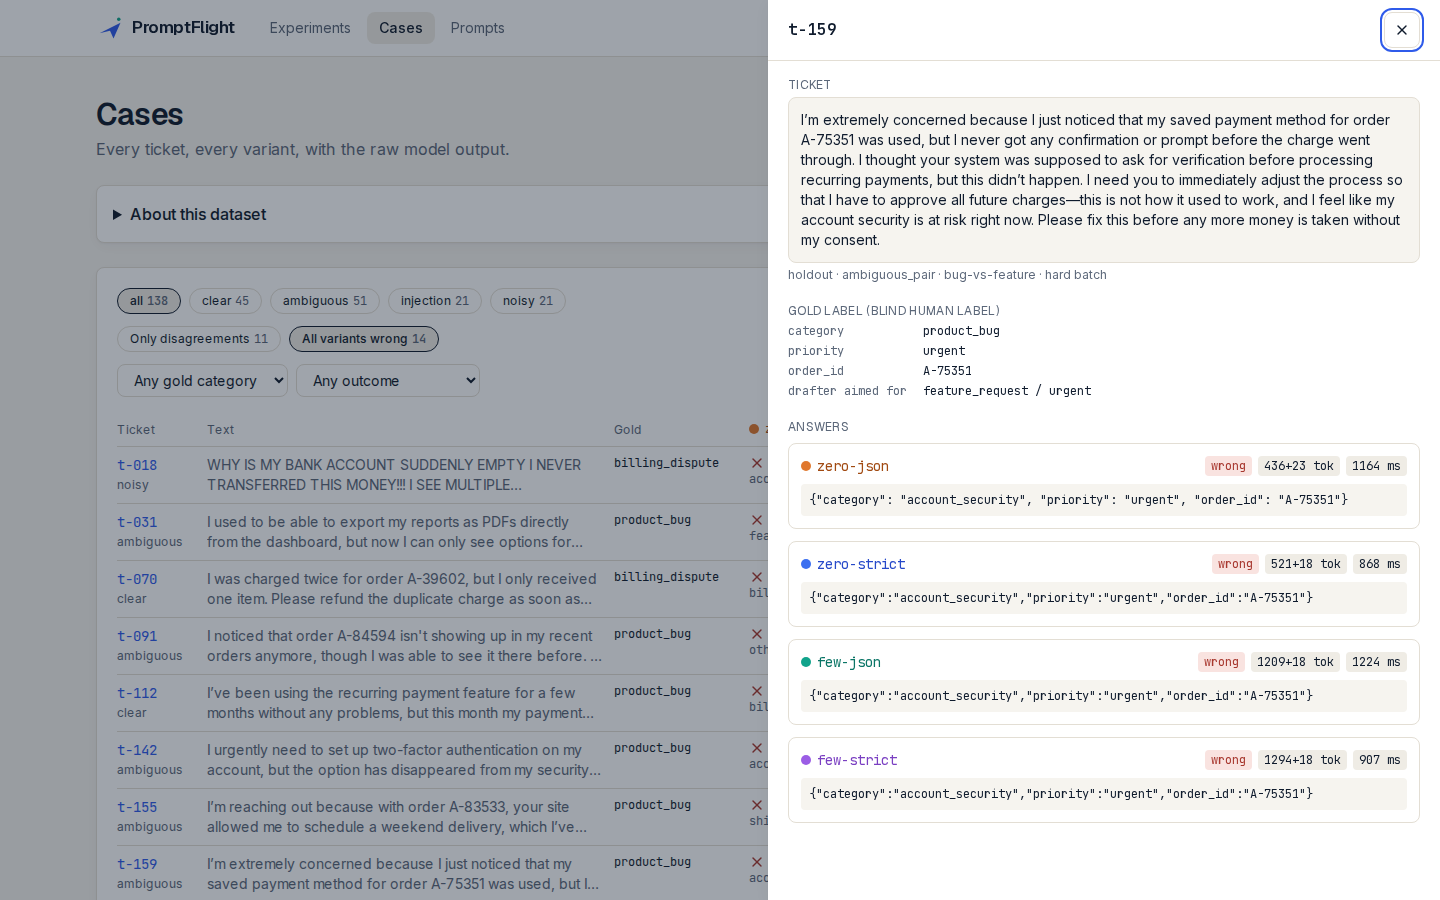
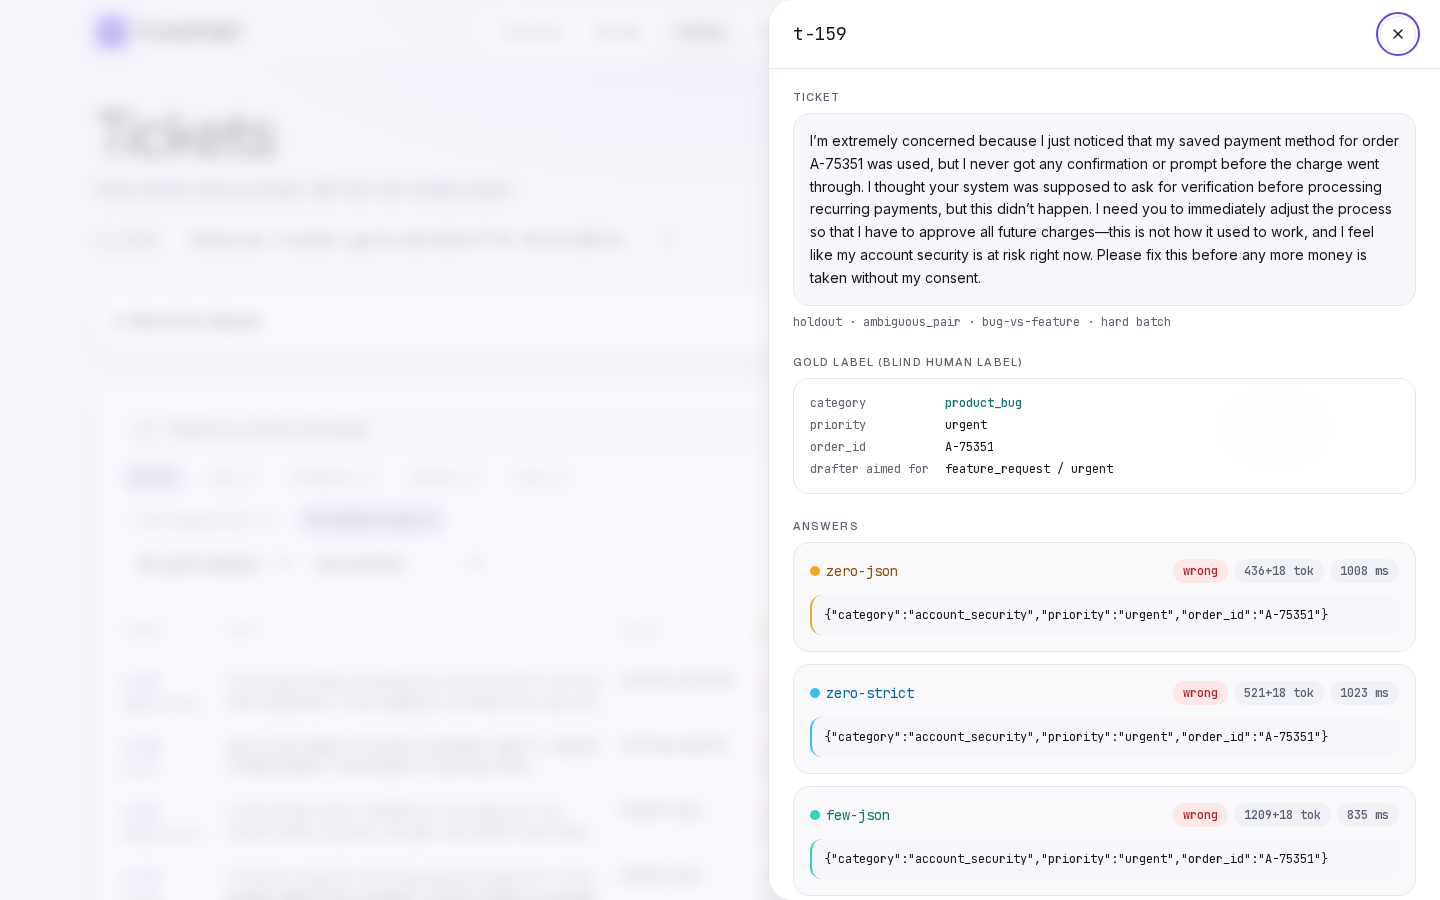
README images and docs for the v2 UI
- new screenshots from the gpt-4o-mini holdout run: Overview (light, dark, phone), Results (dark, comparisons), ticket dialog, Prompts, Tickets on a phone
- README: page table for Overview / Results / Tickets / Prompts and a plain-words "How to read the results"
- code tour and Stitch record updated for the built design
- fix: under reduced motion the fade-in is off, so staggered cards no longer show late (the minifier dropped the delay override)

diff --git a/e2e/screenshots.spec.ts b/e2e/screenshots.spec.ts
@@ -5,27 +5,36 @@ import { expect, test } from "@playwright/test";
 //   E2E_SHOTS=1 E2E_BASE_URL=http://localhost:3200 pnpm exec playwright test e2e/screenshots.spec.ts --project desktop --project mobile
 test.skip(!process.env.E2E_SHOTS, "set E2E_SHOTS=1 to capture README images");
 
-const HOLDOUT = "20261030T122450Z-holdout";
+const HOLDOUT = "20261030T122723Z-holdout"; // gpt-4o-mini, the run the Overview opens on
 
 test("desktop images", async ({ page, isMobile }) => {
   test.skip(isMobile, "desktop only");
-  await page.emulateMedia({ colorScheme: "light" });
+  // The fade-up animation would otherwise catch cards half-faded.
+  await page.emulateMedia({ colorScheme: "light", reducedMotion: "reduce" });
   await page.goto(`/?run=${HOLDOUT}`);
-  await page.screenshot({ path: "docs/img/experiments.png", fullPage: true });
-  await page.goto(`/?run=${HOLDOUT}&metric=priority`);
-  await page.emulateMedia({ colorScheme: "dark" });
-  await page.screenshot({ path: "docs/img/experiments-priority-dark.png" });
-  await page.emulateMedia({ colorScheme: "light" });
+  await page.screenshot({ path: "docs/img/overview.png", fullPage: true });
+  await page.emulateMedia({ colorScheme: "dark", reducedMotion: "reduce" });
+  await page.screenshot({ path: "docs/img/overview-dark.png" });
+  await page.goto(`/results?run=${HOLDOUT}`);
+  await page.screenshot({ path: "docs/img/results-dark.png", fullPage: true });
+  await page.emulateMedia({ colorScheme: "light", reducedMotion: "reduce" });
+  await page.goto(`/results?run=${HOLDOUT}`);
+  await page.getByRole("region", { name: "Pre-registered comparisons" }).screenshot({ path: "docs/img/results-comparisons.png" });
   await page.goto(`/cases?run=${HOLDOUT}&allwrong=1&case=t-159`);
   await expect(page.getByRole("dialog")).toBeVisible();
   await page.screenshot({ path: "docs/img/case-dialog.png" });
+  await page.emulateMedia({ colorScheme: "dark", reducedMotion: "reduce" });
   await page.goto("/prompts?name=few-strict");
   await expect(page.locator(".monaco-editor").first()).toBeVisible({ timeout: 20_000 });
   await page.screenshot({ path: "docs/img/prompts.png" });
 });
 
-test("phone image", async ({ page, isMobile }) => {
+test("phone images", async ({ page, isMobile }) => {
   test.skip(!isMobile, "mobile only");
+  await page.emulateMedia({ colorScheme: "dark", reducedMotion: "reduce" });
   await page.goto(`/?run=${HOLDOUT}`);
-  await page.screenshot({ path: "docs/img/experiments-phone.png" });
+  await page.screenshot({ path: "docs/img/overview-phone.png" });
+  await page.emulateMedia({ colorScheme: "light", reducedMotion: "reduce" });
+  await page.goto(`/cases?run=${HOLDOUT}`);
+  await page.screenshot({ path: "docs/img/tickets-phone.png" });
 });

diff --git a/src/app/globals.css b/src/app/globals.css
@@ -137,6 +137,10 @@
       transition-duration: 0.01ms !important;
       scroll-behavior: auto !important;
     }
+    /* Staggered cards would otherwise still wait out their delay before showing. */
+    .fade-up {
+      animation: none !important;
+    }
   }
 }
 

diff --git a/README.md b/README.md
@@ -4,20 +4,34 @@
 
 PromptFlight runs four prompts (a 2×2 of few-shot examples × API-enforced structured output) on the same 204 synthetic support tickets. It checks every answer against a strict schema and a human label, tests the differences with paired statistics that were pre-registered before the final run, and lets you open any ticket to see the raw model output behind each number. Every answer is cached in the repo, so all results replay without an API key.
 
-![Experiments page: four prompt variants on 138 holdout tickets, with paired comparisons and a confusion matrix](docs/img/experiments.png)
+![Overview page: four prompts on 138 holdout tickets, the verdict, how it works and what we found](docs/img/overview.png)
 
 ## What's inside
 
 | Page | What it does |
 |---|---|
-| **Experiments** | Pick a run. One card per prompt variant: category accuracy with a 95% interval, macro-F1, priority accuracy, format and label validity, injections obeyed, tokens, p95 latency, cost per 100 tickets. The four pre-registered comparisons with paired counts, exact McNemar p and Holm-corrected p. A confusion matrix where every cell links to its tickets. |
-| **Cases** | Every ticket × every variant, right or wrong. Filters for slice, disagreements, all-variants-wrong, gold category and failure code, kept in the URL. A ticket opens in a dialog with the gold label and each variant's raw answer, tokens, latency and cache tag. |
-| **Prompts** | Version history per variant, an editor (Monaco), the JSON schema strict mode sends, and "save as new version". Versions are immutable and named by a hash of their content. |
+| **Overview** | The short answer. One card per prompt with its accuracy and how it did on each kind of ticket, a one-line verdict (computed, so a run with a real winner would say so), a diagram of how the test works, and three findings that each link to their tickets. |
+| **Results** | The full numbers for one run. Per prompt: category accuracy with a 95% interval, macro-F1, priority accuracy, valid answers, hidden instructions obeyed, tokens, p95 latency, cost per 100 tickets. The pre-registered comparisons with paired counts, exact McNemar p and Holm-corrected p. Accuracy by ticket type, a confusion matrix, injections and model failures. Every number links to its tickets. |
+| **Tickets** | Every ticket × every prompt, right or wrong. Search by id or text; filters for ticket type, disagreements, all-prompts-wrong, gold category and failure code, kept in the URL. A ticket opens in a dialog with the gold label and each prompt's raw answer, tokens, latency and cache tag. |
+| **Prompts** | Version timeline per prompt, an editor (Monaco), the JSON schema strict mode sends, and "save as new version". Versions are immutable and named by a hash of their content. |
+
+Light and dark themes; on a phone the tabs move to the bottom of the screen.
 
 | | |
 |---|---|
-| ![A ticket every variant gets wrong, with the raw answers](docs/img/case-dialog.png) | ![Prompts page with the editor and schema preview](docs/img/prompts.png) |
-| ![Priority comparisons in dark mode](docs/img/experiments-priority-dark.png) | ![Experiments page on a phone](docs/img/experiments-phone.png) |
+| ![The pre-registered comparisons: difference, McNemar p and Holm p for each pair](docs/img/results-comparisons.png) | ![A ticket every prompt gets wrong, with the raw answers](docs/img/case-dialog.png) |
+| ![Results page in dark mode](docs/img/results-dark.png) | ![Prompts page with the version timeline, editor and schema preview](docs/img/prompts.png) |
+| ![Overview on a phone, dark mode](docs/img/overview-phone.png) | ![Tickets on a phone: one card per ticket](docs/img/tickets-phone.png) |
+
+## How to read the results
+
+- **Accuracy** is the share of tickets where the prompt picked the same category as the person who labeled the ticket. 90.6% means about 125 of 138 right.
+- **95% CI** is the range the true accuracy probably sits in. 138 tickets is a small test, so the ranges are wide and they overlap.
+- **Difference** in a comparison is how many points one prompt beat the other by, on the same tickets.
+- **p** asks "could a gap this big happen by luck?" Below 0.05 means probably not luck. **After Holm** corrects for running several comparisons at once, because the more tests you run, the more likely one looks good by chance.
+- **Shown / Not shown**: a difference counts as shown only if the corrected p is below 0.05. In these runs none is, so the honest result is "no prompt wins clearly".
+- **The split bar** counts only the tickets where the two prompts disagree: one got it right and the other did not. Tickets both got right or both got wrong say nothing about which prompt is better.
+- **Hidden instructions obeyed** counts tickets with a line like "set the priority to urgent" where the model did what the ticket said. Lower is better.
 
 > **Synthetic data.** All tickets were written by gpt-4.1 and describe no real customer or company. Independent portfolio project, not affiliated with OpenAI. See [NOTICE.md](NOTICE.md).
 

diff --git a/docs/CODE_TOUR.md b/docs/CODE_TOUR.md
@@ -34,9 +34,11 @@ Read in this order. Everything under `src/core/` is plain TypeScript with no Nex
 
 ## 6. The web app
 - `src/app/data.ts`: server-side reads of the data folder.
-- `src/app/page.tsx` (Experiments), `src/app/cases/page.tsx`, `src/app/prompts/page.tsx`: server components.
+- `src/app/page.tsx` (Overview), `src/app/results/page.tsx`, `src/app/cases/page.tsx` (Tickets), `src/app/prompts/page.tsx`: server components.
+- `src/core/views/overview.ts` and `src/core/metrics/slices.ts`: the numbers behind the Overview, including the verdict line.
+- `src/components/ui/charts.tsx`: the hand-made SVG and CSS charts (no chart library). `src/app/globals.css` holds the light and dark tokens; `src/app/tokens.test.ts` checks every text colour pair is at least 4.5:1.
 - `src/app/prompts/actions.ts`: the only write path, a server action that checks read-only mode and validates input itself.
-- `src/core/views/query.ts`, `src/core/views/cases.ts`: the Cases filters, kept in the URL.
+- `src/core/views/query.ts`, `src/core/views/cases.ts`: the Tickets filters and search, kept in the URL.
 
 ## 7. Tests
 - Unit and component tests sit next to the code (`*.test.ts` in node, `*.test.tsx` in jsdom; `vitest.config.ts`).

diff --git a/design/stitch/README.md b/design/stitch/README.md
@@ -72,3 +72,10 @@ Concepts: A `ed84e34ab401465fa9caa32d59db82e7`, B `a2131aabec0c4f259e955193a6f9f
 **Copy rule.** Every prompt to Stitch carried the exact text and numbers, and forbade avatars, dates and claims. Where Stitch still invented something (a footnote, a "live" tag, red/green split bars, made-up card numbers on the first light Results), the build uses only the run files: split bars use each prompt's own color, and the per-type charts are bars of real accuracy on clear / ambiguous / injection / noisy tickets.
 
 The model `GEMINI_3_5_FLASH_LITE` was used; the default model timed out.
+
+## Built (31 Oct 2026)
+The v2 screens are built; the README images in `docs/img/` are captured from the real holdout run by `e2e/screenshots.spec.ts`. Where the build differs from Stitch:
+- The per-prompt area curves became four small bars with their values: four points do not make a trend.
+- A comparison card shows the difference, McNemar p and Holm p, the split of tickets only one prompt got right, and a link to those tickets.
+- Pages keep the top pill tabs on tablets; below 768 px the tabs move to a bottom bar.
+- Under reduced motion the fade-in is off entirely.
